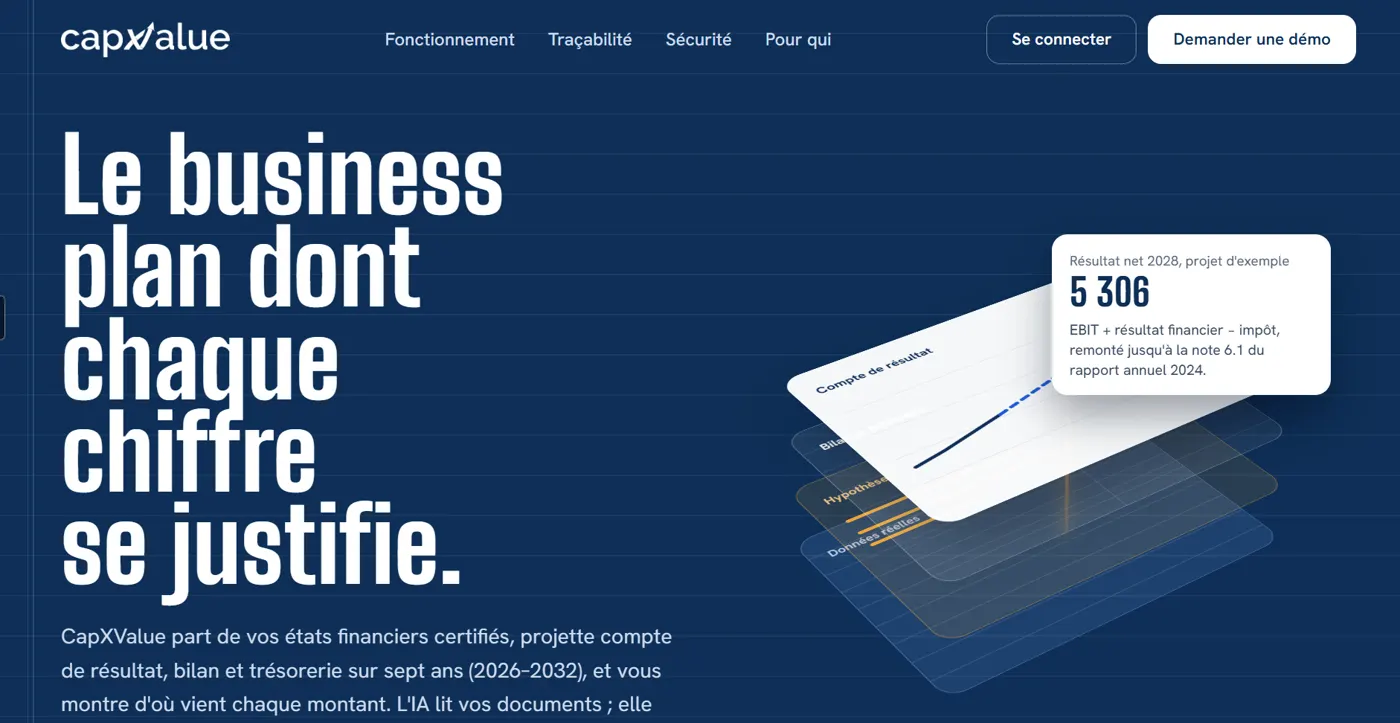
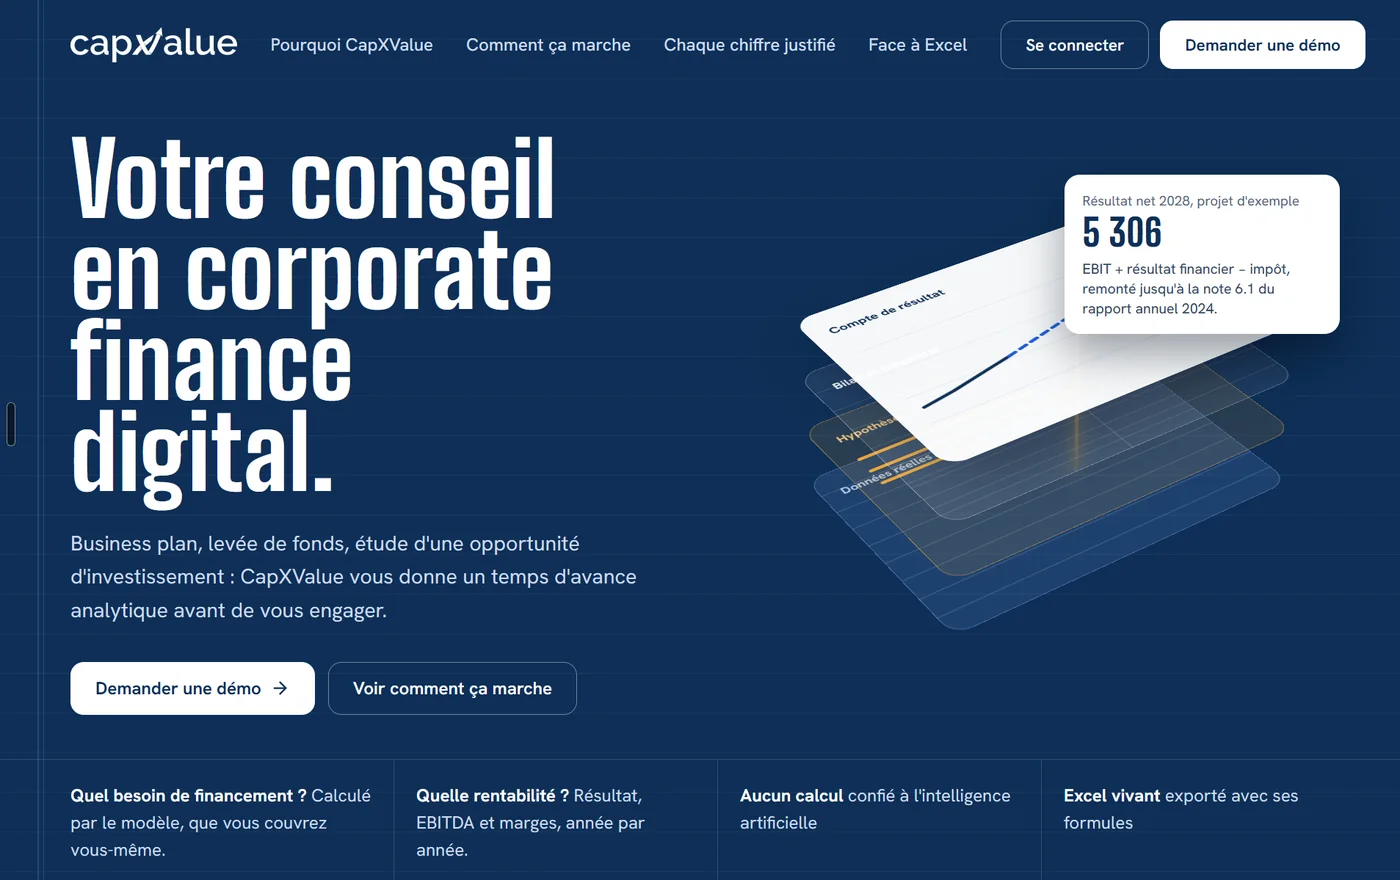
Nouvelle capture d'accueil CapXValue
Remplace la première image du navigateur CapXValue ; dimensions et
textes alternatifs (FR et EN) mis à jour.

Claude-Session: https://claude.ai/code/session_01LgHCuPJJrPLs6DsiFymHpH

diff --git a/src/i18n/en.ts b/src/i18n/en.ts
@@ -44,7 +44,7 @@ export const en: Dict = {
     views: {
       home: {
         tab: 'The site', url: 'capxvalue',
-        alt: 'CapXValue home page, headed “Le business plan dont chaque chiffre se justifie” (the business plan where every figure is justified).',
+        alt: 'CapXValue home page, headed “Votre conseil en corporate finance digital” (your digital corporate finance advisor), with a preview of the income statement.',
         cap: 'The promise: a seven-year business plan in which every amount can be justified.',
       },
       hist: {

diff --git a/src/i18n/fr.ts b/src/i18n/fr.ts
@@ -43,7 +43,7 @@ export const fr = {
     views: {
       home: {
         tab: 'Le site', url: 'capxvalue',
-        alt: 'Page d’accueil de CapXValue : « Le business plan dont chaque chiffre se justifie ».',
+        alt: 'Page d’accueil de CapXValue : « Votre conseil en corporate finance digital », avec un aperçu du compte de résultat.',
         cap: 'La promesse : un business plan sur sept ans dont chaque montant se justifie.',
       },
       hist: {
